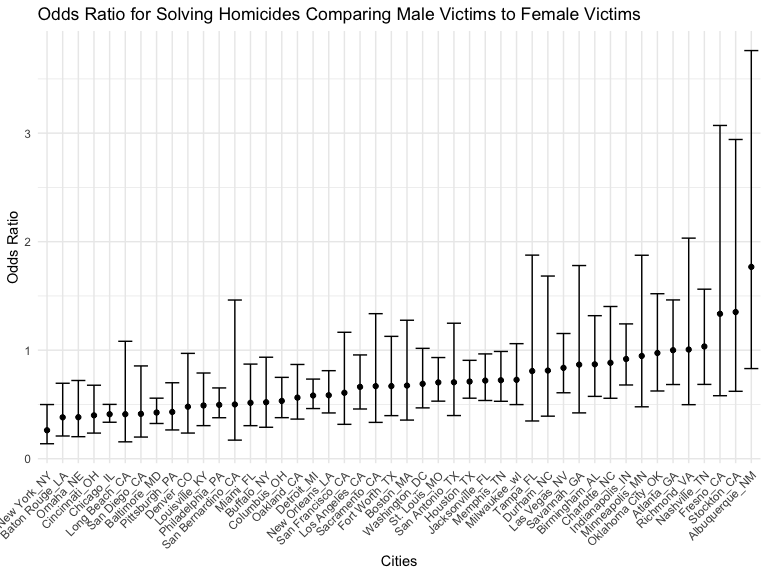
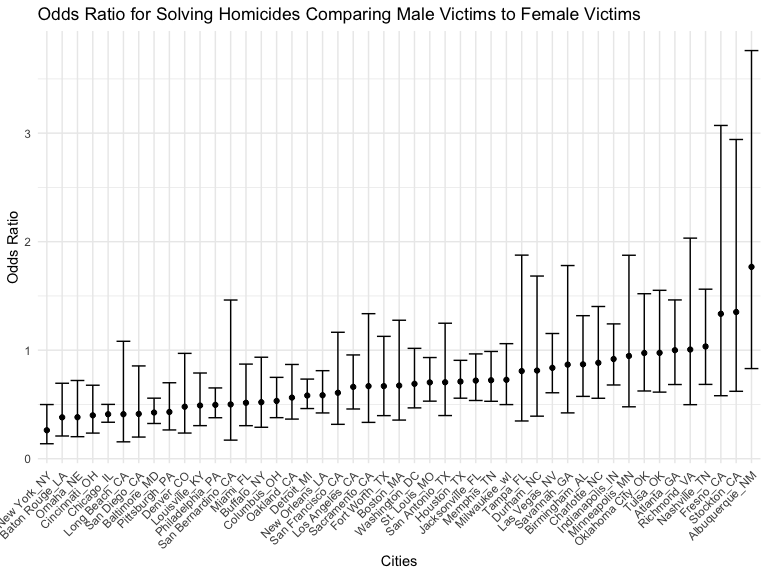
problem 2 edits

Changed region(s): [[0.0625, 0.0625, 0.9688, 0.7812], [0.0, 0.8125, 0.9688, 0.9688], [0.5938, 0.5312, 0.625, 0.5625]]

diff --git a/p8105_hw6_gw2442.md b/p8105_hw6_gw2442.md
@@ -96,10 +96,10 @@ victim age’s that were non-numeric.
 homicide_data = 
   homicide_data %>%
   mutate(solved_homicide = ifelse(disposition == "Closed by arrest", 1, 0)) %>%
-  filter(city != "Dallas", 
-         city != "Phoenix", 
-         city != "Kansas City", 
-         city != "Tulsa") %>%
+  filter(city_state != "Dallas_TX", 
+         city_state != "Phoenix_AZ", 
+         city_state != "Kansas City_MO", 
+         city_state != "Tulsa_AL") %>%
   filter(victim_race == "White" | victim_race == "Black") %>%
   mutate(victim_age = as.numeric(victim_age)) %>%
   drop_na(victim_age)
